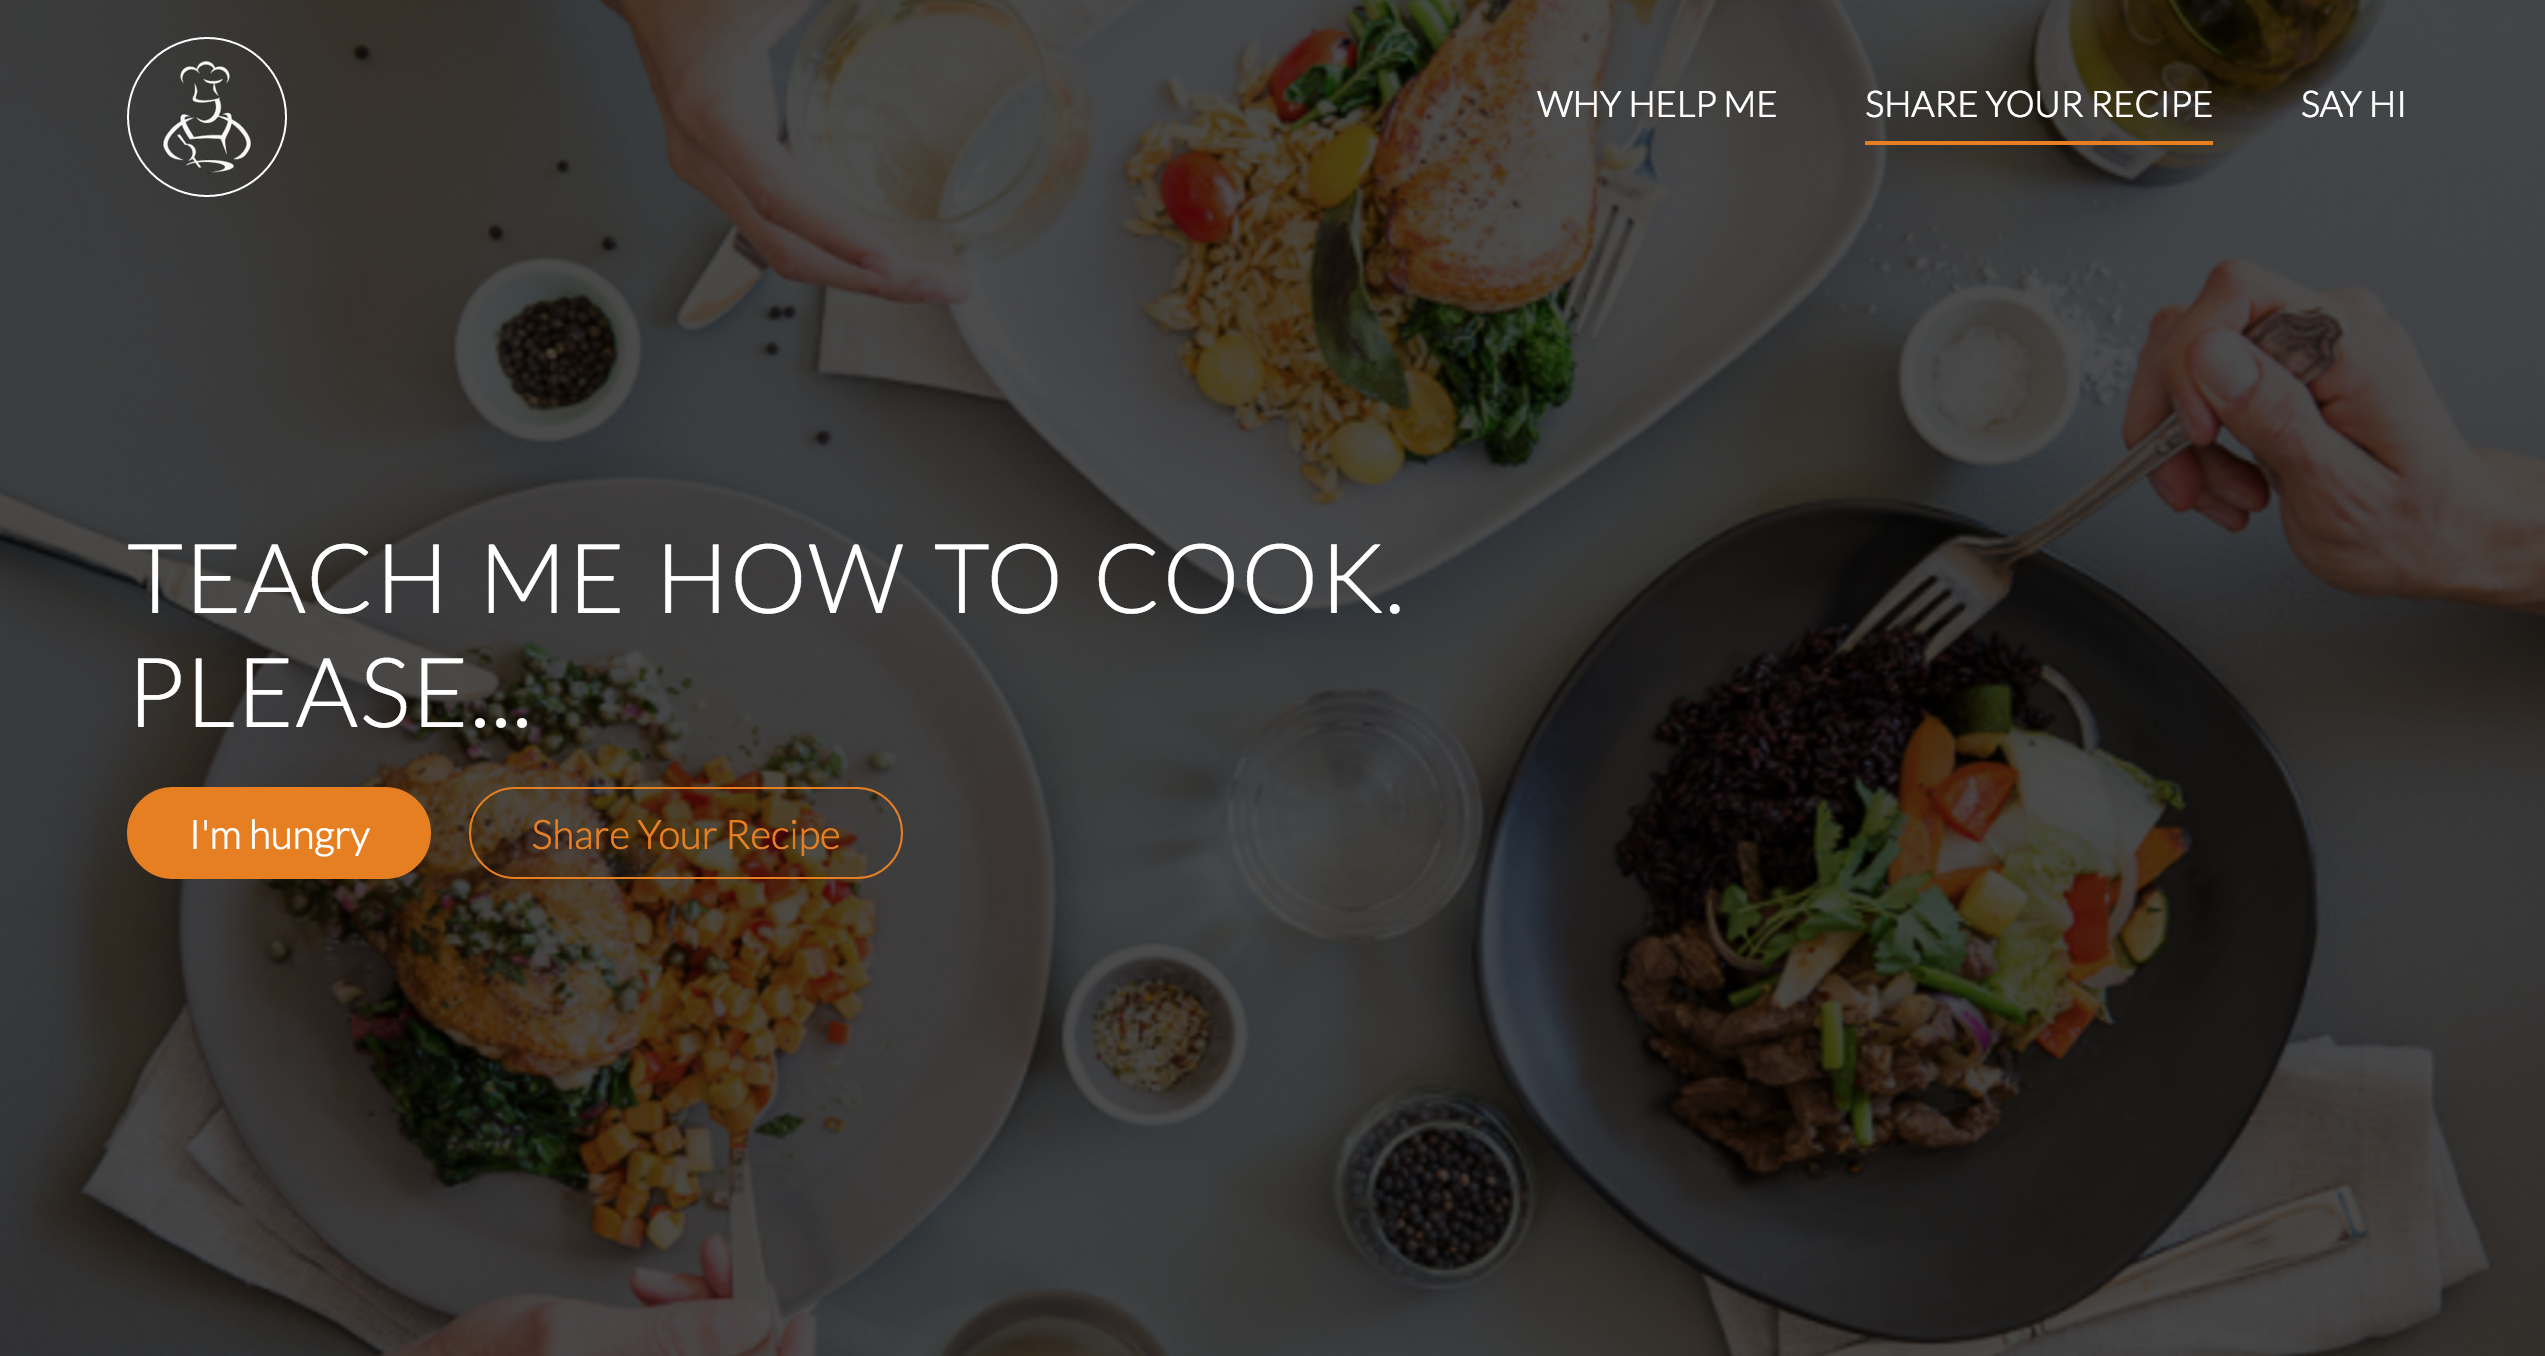
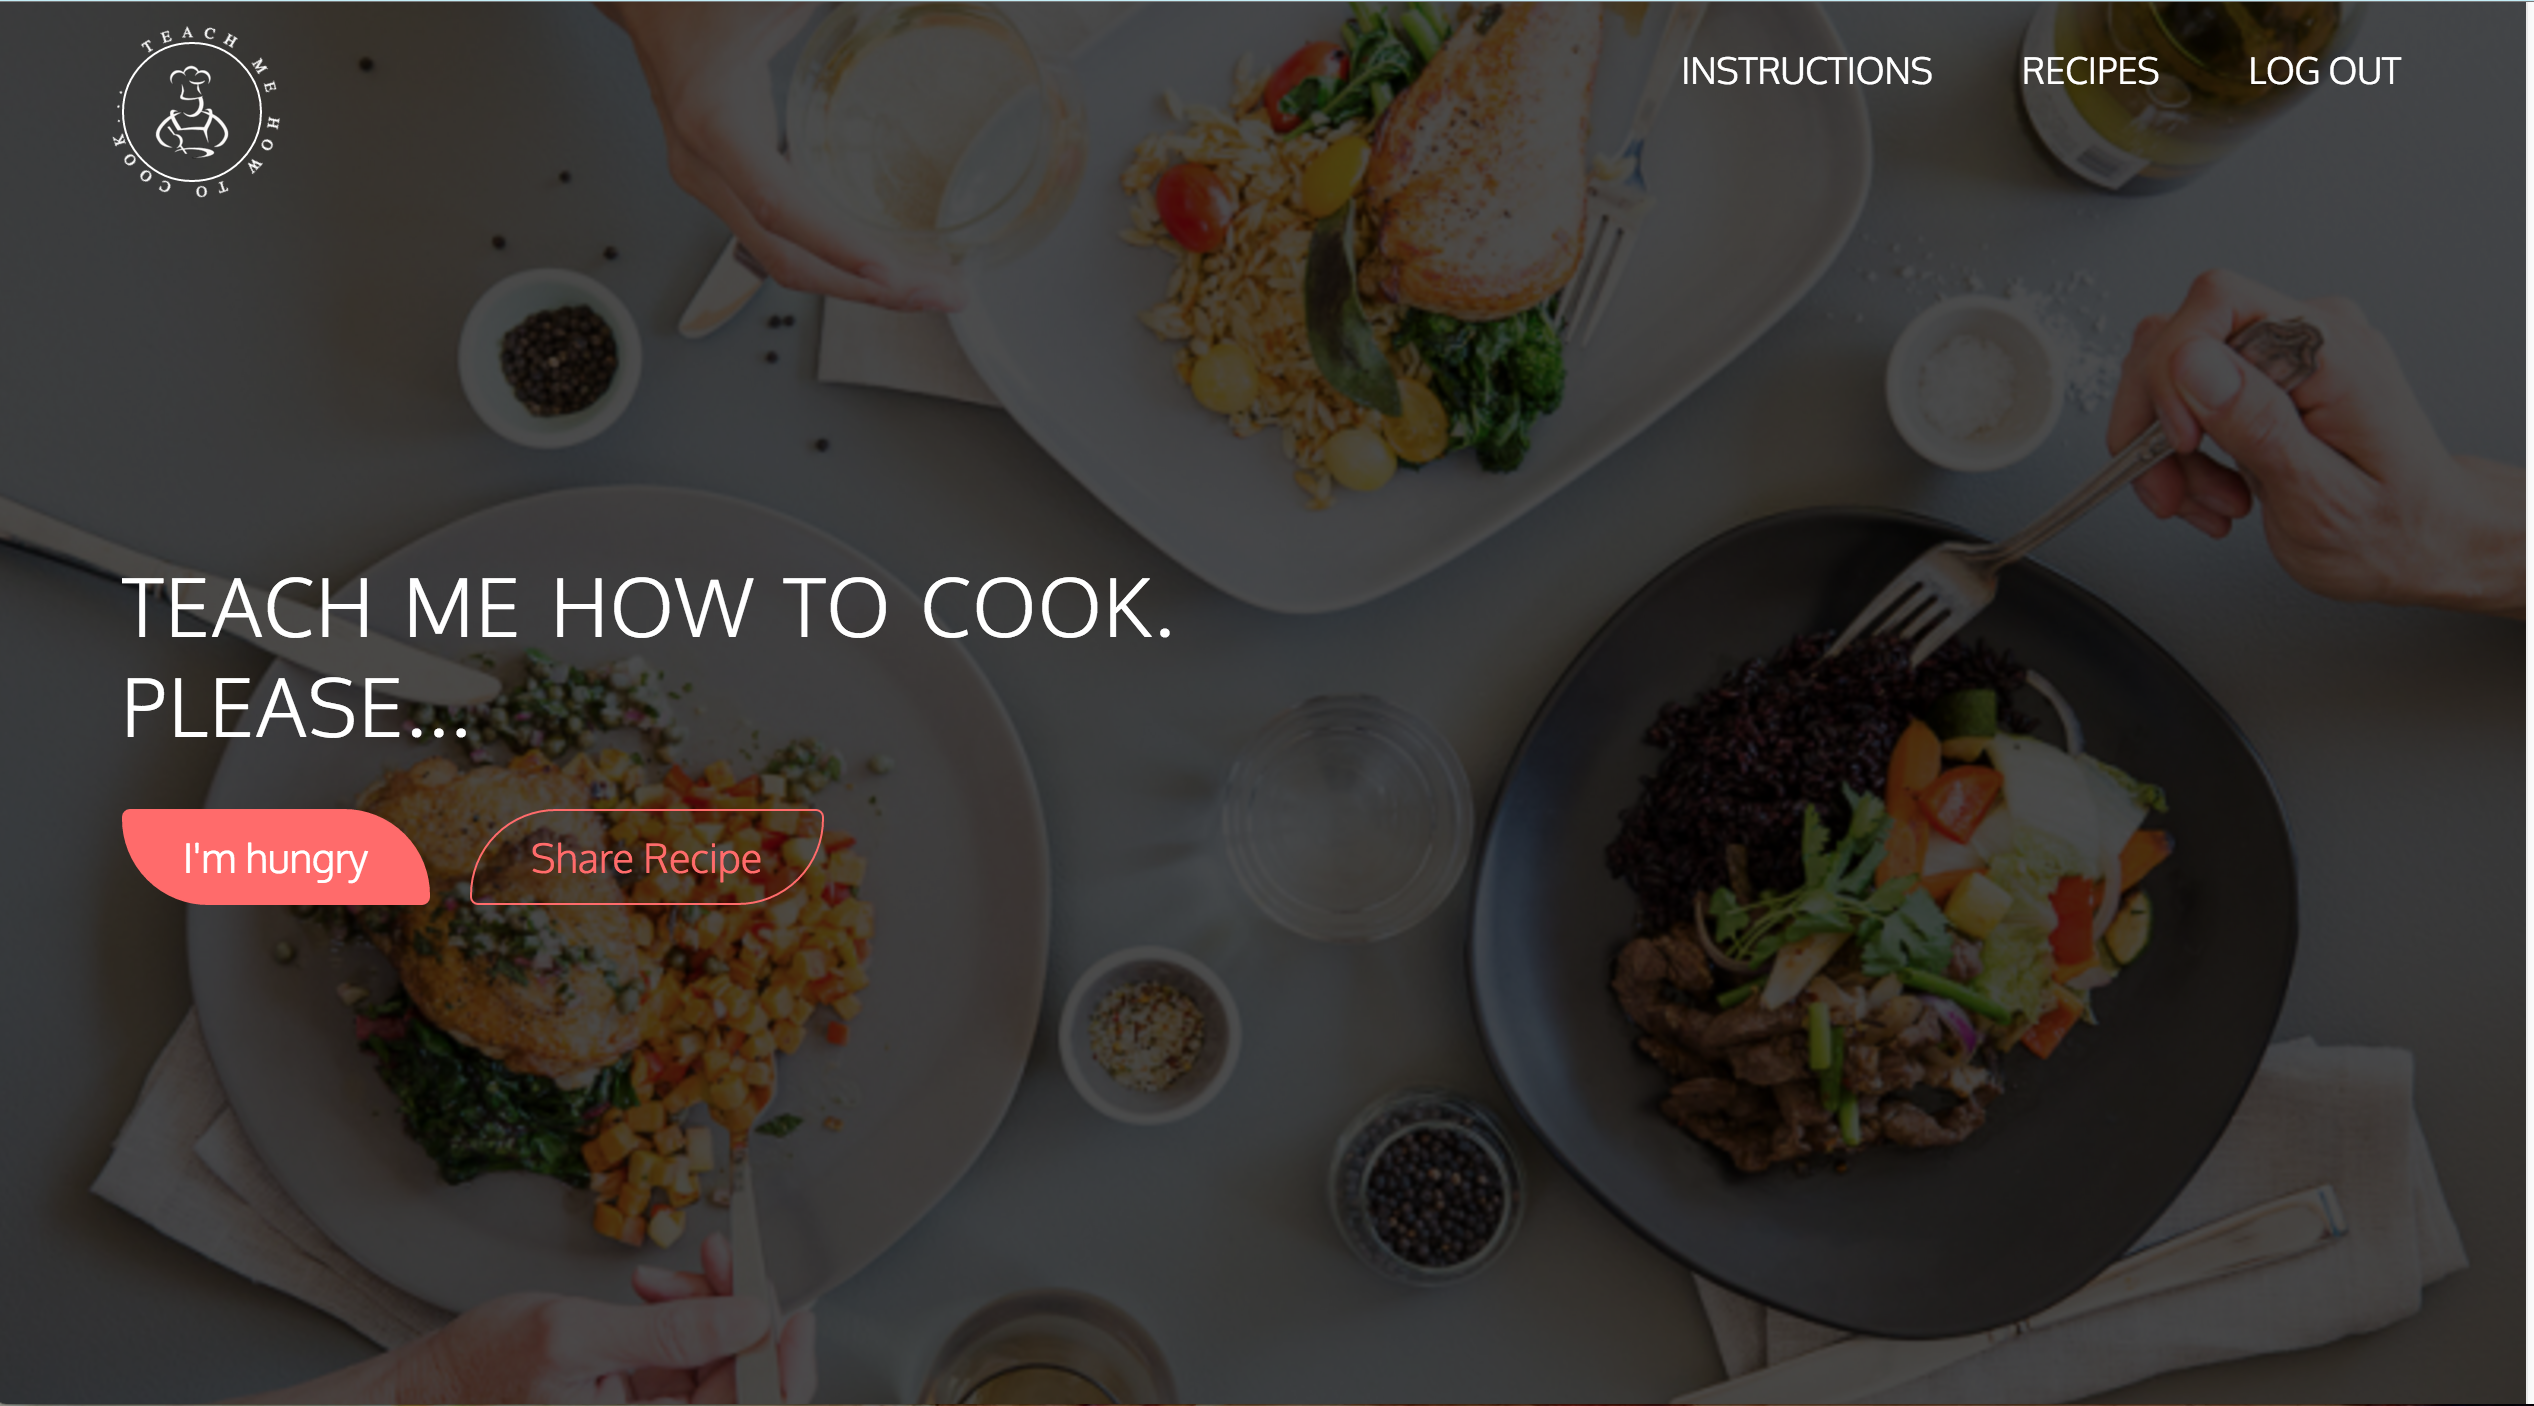
updated portfolio and restyled

diff --git a/index.html b/index.html
@@ -44,7 +44,7 @@
                     <span class="icon-bar"></span>
                     <span class="icon-bar"></span>
                 </button>
-                <a class="navbar-brand page-scroll hvr-wobble-to-top-right" href="#page-top">Anya Melnyk</a>
+                <a class="navbar-brand page-scroll hvr-wobble-to-top-right" href="#page-top" style="text-transform: none;">Anya Melnyk</a>
             </div>
 
             <!-- Collect the nav links, forms, and other content for toggling -->
@@ -201,7 +201,11 @@
                     <h3 class="section-subheading text-muted">Samples of My Work</h3>
                 </div>
             </div>
+
             <div class="row">
+
+                                     <!--   PACK'n'ROLL -->
+
                 <div class="col-md-4 col-sm-6 portfolio-item">
                     <a href="#portfolioModal1" class="portfolio-link" data-toggle="modal">
                         <div class="portfolio-hover">
@@ -216,48 +220,9 @@
                         <p class="text-muted">Ruby On Rails, JavaScript, HTML/CSS</p>
                     </div>
                 </div>
-                <div class="col-md-4 col-sm-6 portfolio-item">
-                    <a href="#portfolioModal2" class="portfolio-link" data-toggle="modal">
-                        <div class="portfolio-hover">
-                            <div class="portfolio-hover-content">
-                                <i class="fa fa-plus fa-3x"></i>
-                            </div>
-                        </div>
-                        <img src="img/portfolio/trekabilly-app.png" class="img-responsive" alt="">
-                    </a>
-                    <div class="portfolio-caption">
-                        <h4>Trekabilly</h4>
-                        <p class="text-muted">Ruby On Rails, JavaScript, HTML/CSS</p>
-                    </div>
-                </div>
-                                <div class="col-md-4 col-sm-6 portfolio-item">
-                    <a href="#portfolioModal6" class="portfolio-link" data-toggle="modal">
-                        <div class="portfolio-hover">
-                            <div class="portfolio-hover-content">
-                                <i class="fa fa-plus fa-3x"></i>
-                            </div>
-                        </div>
-                        <img src="img/portfolio/dating-app.png" class="img-responsive" alt="">
-                    </a>
-                    <div class="portfolio-caption">
-                        <h4>Dating App</h4>
-                        <p class="text-muted">Ruby On Rails, JavaScript, HTML/CSS</p>
-                    </div>
-                </div>
-                <div class="col-md-4 col-sm-6 portfolio-item">
-                    <a href="#portfolioModal3" class="portfolio-link" data-toggle="modal">
-                        <div class="portfolio-hover">
-                            <div class="portfolio-hover-content">
-                                <i class="fa fa-plus fa-3x"></i>
-                            </div>
-                        </div>
-                        <img src="img/portfolio/impromptu-app.png" class="img-responsive" alt="">
-                    </a>
-                    <div class="portfolio-caption">
-                        <h4>Impromptu Meetup</h4>
-                        <p class="text-muted">Backbone.js, Ruby on Rails, HTML/CSS</p>
-                    </div>
-                </div>
+
+
+                              <!--   TEACH-ME-HOW-TO-COOK -->
 
                 <div class="col-md-4 col-sm-6 portfolio-item">
                     <a href="#portfolioModal4" class="portfolio-link" data-toggle="modal">
@@ -273,7 +238,13 @@
                         <p class="text-muted">Ruby On Rails, JavaScript, HTML/CSS</p>
                     </div>
                 </div>
-<!--                 <div class="col-md-4 col-sm-6 portfolio-item">
+                                
+    
+
+
+                                       <!--   eDATE -->
+
+                <div class="col-md-4 col-sm-6 portfolio-item">
                     <a href="#portfolioModal6" class="portfolio-link" data-toggle="modal">
                         <div class="portfolio-hover">
                             <div class="portfolio-hover-content">
@@ -283,10 +254,55 @@
                         <img src="img/portfolio/dating-app.png" class="img-responsive" alt="">
                     </a>
                     <div class="portfolio-caption">
-                        <h4>Dating App</h4>
+                        <h4>eDate</h4>
                         <p class="text-muted">Ruby On Rails, JavaScript, HTML/CSS</p>
                     </div>
-                </div> -->
+                </div>
+
+</div>
+<div class="row">
+
+                                     <!--   IMPROMPTU  -->
+
+                <div class="col-md-4 col-sm-6 portfolio-item">
+                    <a href="#portfolioModal3" class="portfolio-link" data-toggle="modal">
+                        <div class="portfolio-hover">
+                            <div class="portfolio-hover-content">
+                                <i class="fa fa-plus fa-3x"></i>
+                            </div>
+                        </div>
+                        <img src="img/portfolio/impromptu-app.png" class="img-responsive" alt="">
+                    </a>
+                    <div class="portfolio-caption">
+                        <h4>Impromptu Meetup</h4>
+                        <p class="text-muted">Backbone.js, Ruby on Rails, HTML/CSS</p>
+                    </div>
+                </div>
+
+
+
+                                <!--   TREAKBILLY -->
+
+                <div class="col-md-4 col-sm-6 portfolio-item">
+                    <a href="#portfolioModal2" class="portfolio-link" data-toggle="modal">
+                        <div class="portfolio-hover">
+                            <div class="portfolio-hover-content">
+                                <i class="fa fa-plus fa-3x"></i>
+                            </div>
+                        </div>
+                        <img src="img/portfolio/trekabilly-app.png" class="img-responsive" alt="">
+                    </a>
+                    <div class="portfolio-caption">
+                        <h4>Trekabilly</h4>
+                        <p class="text-muted">Ruby On Rails, JavaScript, HTML/CSS</p>
+                    </div>
+                </div>
+
+
+
+
+                                  <!--   JOB-SEARCH-TRACKER  -->
+
                 <div class="col-md-4 col-sm-6 portfolio-item">
                     <a href="#portfolioModal5" class="portfolio-link" data-toggle="modal">
                         <div class="portfolio-hover">
@@ -301,6 +317,9 @@
                         <p class="text-muted">Ruby On Rails, JavaScript, HAML/SASS</p>
                     </div>
                 </div>
+
+
+
             </div>
         </div>
     </section>
@@ -475,7 +494,7 @@
     <!-- Portfolio Modals -->
     <!-- Use the modals below to showcase details about your portfolio projects! -->
 
-    <!-- Portfolio Modal 1 -->
+    <!-- Portfolio Modal 1 PACK'n'ROLL -->
     <div class="portfolio-modal modal fade" id="portfolioModal1" tabindex="-1" role="dialog" aria-hidden="true">
         <div class="modal-content">
             <div class="close-modal" data-dismiss="modal">
@@ -540,7 +559,7 @@
         </div>
     </div>
 
-    <!-- Portfolio Modal 2 -->
+    <!-- Portfolio Modal 2 TREKABILLY-->
     <div class="portfolio-modal modal fade" id="portfolioModal2" tabindex="-1" role="dialog" aria-hidden="true">
         <div class="modal-content">
             <div class="close-modal" data-dismiss="modal">
@@ -586,7 +605,7 @@
         </div>
     </div>
 
-    <!-- Portfolio Modal 3 -->
+    <!-- Portfolio Modal 3 IMPROPMTU-->
     <div class="portfolio-modal modal fade" id="portfolioModal3" tabindex="-1" role="dialog" aria-hidden="true">
         <div class="modal-content">
             <div class="close-modal" data-dismiss="modal">
@@ -631,7 +650,7 @@
         </div>
     </div>
 
-    <!-- Portfolio Modal 4 -->
+    <!-- Portfolio Modal 4 TEACH-ME-HOW-TO-COOK  -->
     <div class="portfolio-modal modal fade" id="portfolioModal4" tabindex="-1" role="dialog" aria-hidden="true">
         <div class="modal-content">
             <div class="close-modal" data-dismiss="modal">
@@ -648,8 +667,30 @@
                             <h2>Teach Me How To Cook</h2>
                             <p class="item-intro text-muted">This Appllication allows my Facebook friends to share their culinary skills with me by posting their recipes and teaching me how to cook :)</p>
                             <img class="img-responsive img-centered" src="img/portfolio/teach-me-how-to-cook.png" alt="">
-                            <p>Description coming soon...</p>
-                            <p></p>
+                            <img class="img-responsive img-centered" src="img/portfolio/teach-me-how-to-cook-1.png" alt="">
+                            <img class="img-responsive img-centered" src="img/portfolio/teach-me-how-to-cook-2.png" alt="">
+                            <ul style='list-style-type: none'> <strong>Teach-Me-How-To-Cook was built using:</strong> 
+                            <br><br>
+                                <li><i>Ruby On Rails</i></li>
+                                <li><i>JavaScript</i></li>
+                                <li><i>jQuery</i></li>
+                                <li><i>HTML/CSS</i></li>
+                                <li><i>SQLite3 / PostgreSQL</i></li>
+                            </ul>
+                            <br>
+                            <hr>
+                            <p>See code on <a href="https://github.com/slyka85/Teach-Me-How-To-Cook" target='_blank'>Github</a> </p>
+                            <p>or</p>
+                            <p>See app on <a href="https://teach-me-how-to-cook.herokuapp.com" target='_blank'>Heroku</a> </p>
+                                 <hr> 
+                            <h6>Application Features:</h6>
+                          
+                    <p>User can create a personal account (sign up / log in) and edit his/her profile settings.
+                    </p>
+                    <p>Create a Recipe by uploading images and adding Ingredients and Directions</p>
+                    <p>User can send a message notifying me that the Recipe is ready</p>
+
+
                             <button type="button" class="btn btn-primary" data-dismiss="modal">Back To Portfolio</button>
                         </div>
                     </div>
@@ -658,7 +699,7 @@
         </div>
     </div>
 
-    <!-- Portfolio Modal 5 -->
+    <!-- Portfolio Modal 5 JOB-SEARCH-TRACKER -->
     <div class="portfolio-modal modal fade" id="portfolioModal5" tabindex="-1" role="dialog" aria-hidden="true">
         <div class="modal-content">
             <div class="close-modal" data-dismiss="modal">
@@ -685,7 +726,7 @@
         </div>
     </div>
 
-    <!-- Portfolio Modal 6 -->
+    <!-- Portfolio Modal 6 Dating App -->
     <div class="portfolio-modal modal fade" id="portfolioModal6" tabindex="-1" role="dialog" aria-hidden="true">
         <div class="modal-content">
             <div class="close-modal" data-dismiss="modal">

diff --git a/css/agency.css b/css/agency.css
@@ -35,14 +35,15 @@ a.active {
 }
 
 a {
-    color: #fed136;
+    color: #b56289;
+    text-transform: uppercase;
 }
 
 a:hover,
 a:focus,
 a:active,
 a.active {
-    color: #fec503;
+    color: #b56289;
 }
 
 h1,
@@ -69,12 +70,12 @@ h6 {
 }
 
 .btn-primary {
-    border-color: #fed136;
+    border-color: rgba(76, 34, 54, 0.8);
     text-transform: uppercase;
     font-family: Montserrat,"Helvetica Neue",Helvetica,Arial,sans-serif;
     font-weight: 700;
     color: #fff;
-    background-color: #fed136;
+    background-color: rgba(76, 34, 54, 0.8);
 }
 
 .btn-primary:hover,
@@ -82,9 +83,9 @@ h6 {
 .btn-primary:active,
 .btn-primary.active,
 .open .dropdown-toggle.btn-primary {
-    border-color: #f6bf01;
+    border-color: rgba(76, 34, 54, 1);
     color: #fff;
-    background-color: #fec503;
+    background-color: rgba(76, 34, 54, 1);
 }
 
 .btn-primary:active,
@@ -381,7 +382,7 @@ section h3.section-subheading {
     width: 100%;
     height: 100%;
     opacity: 0;
-    background: rgba(254,209,54,.9);
+    background: rgba(76, 34, 54, 0.7);
     -webkit-transition: all ease .5s;
     -moz-transition: all ease .5s;
     transition: all ease .5s;
